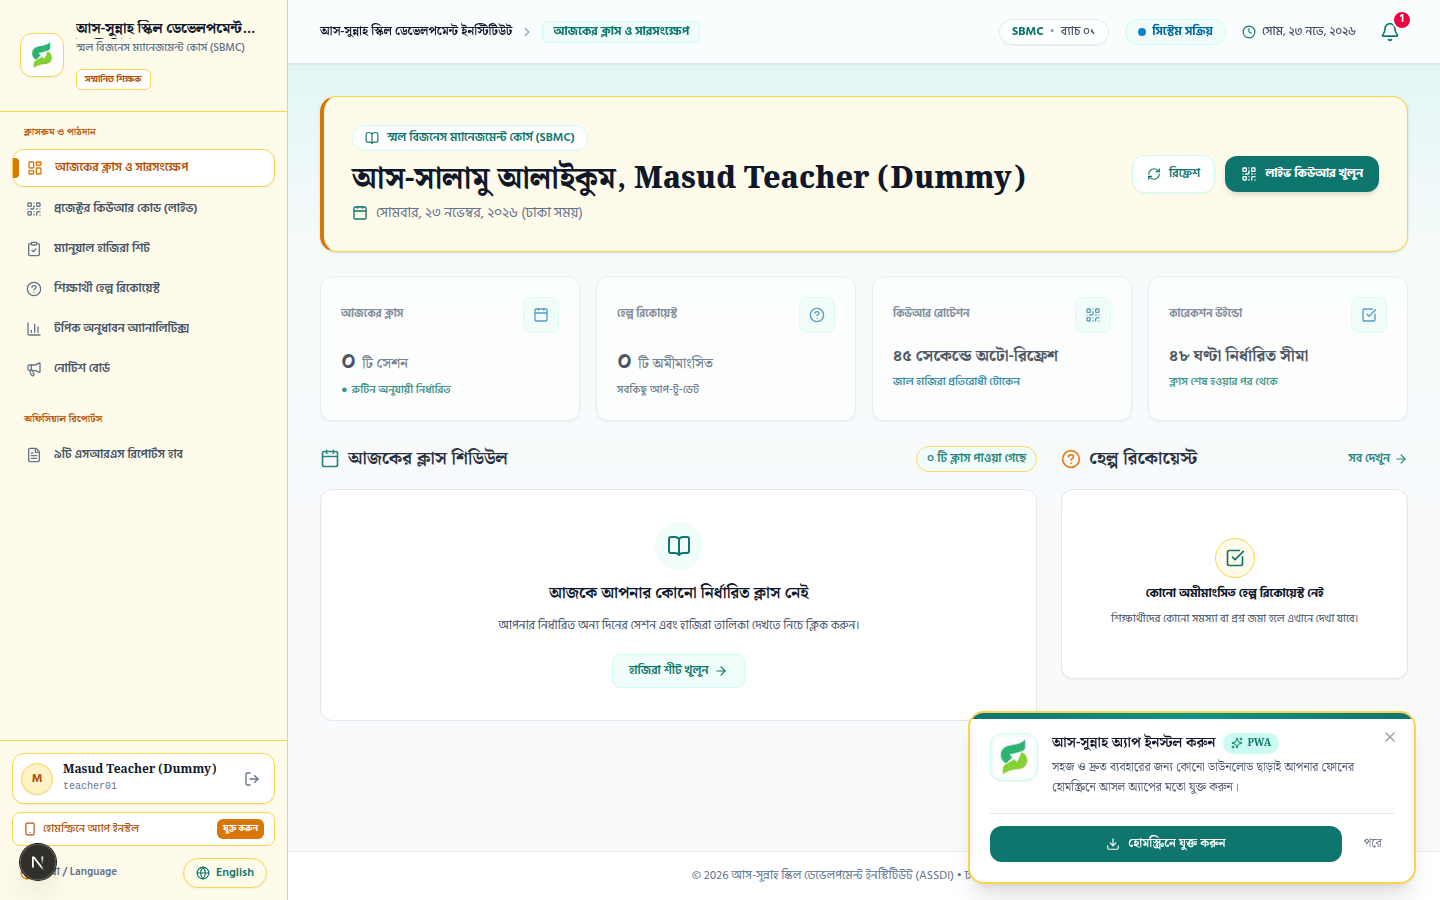
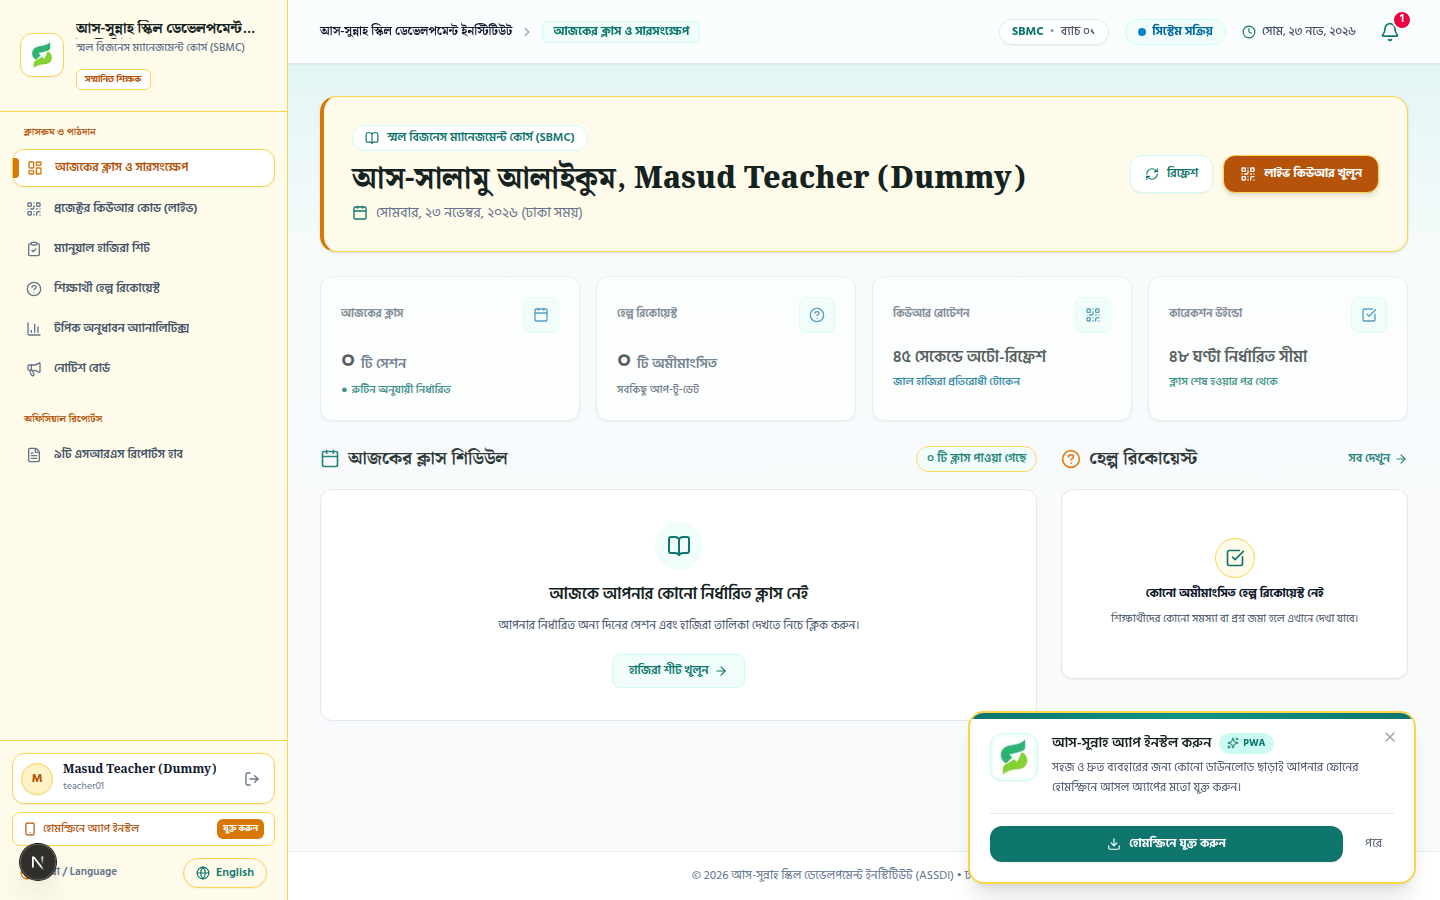
feat(design): replace dark green and teal with warm amber in QR modal and buttons

diff --git a/web/src/components/student/WebQRScannerModal.tsx b/web/src/components/student/WebQRScannerModal.tsx
@@ -255,13 +255,13 @@ export default function WebQRScannerModal({
         {/* Modal Header */}
         <div className="px-6 py-4 bg-slate-50 border-b border-slate-200/90 flex items-center justify-between">
           <div className="flex items-center gap-3">
-            <div className="w-10 h-10 rounded-xl bg-[#FFFBEB] border border-[#FCD34D] text-[#0F766E] flex items-center justify-center shadow-xs">
-              <QrCode className="w-5 h-5 text-[#0F766E]" />
+            <div className="w-10 h-10 rounded-xl bg-[#FFFBEB] border border-[#FCD34D] text-[#B45309] flex items-center justify-center shadow-xs">
+              <QrCode className="w-5 h-5 text-[#B45309]" />
             </div>
             <div>
               <h3 className="font-extrabold text-[#92400E] text-base sm:text-lg flex items-center gap-2">
                 {isBangla ? 'উপস্থিতি কিউআর স্ক্যানার' : 'Attendance QR Scanner'}
-                <span className="text-[10px] font-bold px-2 py-0.5 rounded-full bg-emerald-100 text-emerald-800 border border-emerald-200">
+                <span className="text-[10px] font-bold px-2 py-0.5 rounded-full bg-[#FEF3C7] text-[#92400E] border border-[#FCD34D]">
                   Live
                 </span>
               </h3>
@@ -290,7 +290,7 @@ export default function WebQRScannerModal({
             onClick={() => setActiveTab('camera')}
             className={`flex-1 py-2 text-xs font-bold rounded-lg transition-all flex items-center justify-center gap-2 cursor-pointer ${
               activeTab === 'camera'
-                ? 'bg-[#FFFBEB] text-[#0F766E] border border-[#FCD34D] shadow-xs'
+                ? 'bg-[#FFFBEB] text-[#B45309] border border-[#FCD34D] shadow-xs'
                 : 'text-slate-600 hover:text-slate-900'
             }`}
           >
@@ -304,7 +304,7 @@ export default function WebQRScannerModal({
             }}
             className={`flex-1 py-2 text-xs font-bold rounded-lg transition-all flex items-center justify-center gap-2 cursor-pointer ${
               activeTab === 'manual'
-                ? 'bg-[#FFFBEB] text-[#0F766E] border border-[#FCD34D] shadow-xs'
+                ? 'bg-[#FFFBEB] text-[#B45309] border border-[#FCD34D] shadow-xs'
                 : 'text-slate-600 hover:text-slate-900'
             }`}
           >
@@ -405,7 +405,7 @@ export default function WebQRScannerModal({
                     <div className="flex gap-2 mt-1">
                       <button
                         onClick={startCamera}
-                        className="px-3.5 py-1.5 rounded-lg bg-[#0F766E] hover:bg-[#115E59] text-white text-xs font-bold border border-[#FCD34D] flex items-center gap-1.5 transition-colors cursor-pointer"
+                        className="px-3.5 py-1.5 rounded-lg bg-[#B45309] hover:bg-[#92400E] text-white text-xs font-bold border border-[#FCD34D] flex items-center gap-1.5 transition-colors cursor-pointer shadow-xs active:scale-95"
                       >
                         <RefreshCw className="w-3.5 h-3.5 text-white" />
                         <span>{isBangla ? 'আবার চেষ্টা করুন' : 'Retry Camera'}</span>
@@ -469,7 +469,7 @@ export default function WebQRScannerModal({
                         ? 'প্রজেক্টরে প্রদর্শিত টোকেন কোড দিন'
                         : 'Paste or type session token...'
                     }
-                    className="w-full px-3.5 py-2.5 bg-slate-50 border border-slate-200 rounded-xl text-xs sm:text-sm font-mono text-slate-900 focus:outline-none focus:ring-2 focus:ring-[#0F766E] focus:bg-white"
+                    className="w-full px-3.5 py-2.5 bg-slate-50 border border-slate-200 rounded-xl text-xs sm:text-sm font-mono text-slate-900 focus:outline-none focus:ring-2 focus:ring-[#B45309] focus:bg-white"
                     required
                   />
                 </div>
@@ -483,7 +483,7 @@ export default function WebQRScannerModal({
               <button
                 type="submit"
                 disabled={submitting || !manualToken.trim()}
-                className="w-full py-2.5 px-4 rounded-xl bg-[#0F766E] hover:bg-[#115E59] text-white text-xs sm:text-sm font-bold border border-[#FCD34D] transition-all flex items-center justify-center gap-2 cursor-pointer shadow-xs disabled:opacity-50"
+                className="w-full py-2.5 px-4 rounded-xl bg-[#B45309] hover:bg-[#92400E] text-white text-xs sm:text-sm font-bold border border-[#FCD34D] transition-all flex items-center justify-center gap-2 cursor-pointer shadow-xs disabled:opacity-50"
               >
                 {submitting ? (
                   <RefreshCw className="w-4 h-4 animate-spin text-white" />
@@ -498,8 +498,8 @@ export default function WebQRScannerModal({
           )}
 
           {/* Institutional Security Notice */}
-          <div className="p-3 bg-emerald-50/70 rounded-xl border border-emerald-100 flex items-start gap-2 text-[11px] text-emerald-900">
-            <ShieldCheck className="w-4 h-4 text-emerald-700 shrink-0 mt-0.5" />
+          <div className="p-3 bg-[#FFFBEB] rounded-xl border border-[#FCD34D] flex items-start gap-2 text-[11px] text-[#92400E]">
+            <ShieldCheck className="w-4 h-4 text-[#D97706] shrink-0 mt-0.5" />
             <p>
               {isBangla
                 ? 'ক্লাস শুরুর নির্ধারিত ১৫ মিনিটের মধ্যে কেবল সক্রিয় ব্যাচের শিক্ষার্থীদের উপস্থিতি গ্রহণযোগ্য। প্রতিটি কিউআর কোড প্রতি ৪৫ সেকেন্ডে নতুন টোকেনে পরিবর্তিত হয়।'

diff --git a/web/src/app/student/page.tsx b/web/src/app/student/page.tsx
@@ -469,23 +469,23 @@ export default function StudentPortalPage() {
           <div className="flex flex-wrap items-center gap-2.5">
             <button
               onClick={() => setIdCardOpen(true)}
-              className="px-4 py-2 rounded-xl bg-white hover:bg-[#F0FDFA] text-[#0F766E] border border-[#CCFBF1] font-bold text-xs transition-all flex items-center gap-2 cursor-pointer shadow-xs active:scale-95"
+              className="px-4 py-2 rounded-xl bg-white hover:bg-[#FFFBEB] text-[#B45309] border border-[#FCD34D] font-bold text-xs transition-all flex items-center gap-2 cursor-pointer shadow-xs active:scale-95"
               title={isBangla ? 'ডিজিটাল আইডি কার্ড ও এডমিট কার্ড' : 'Digital ID & Admit Card'}
             >
-              <CreditCard className="w-4 h-4 text-[#0F766E]" />
+              <CreditCard className="w-4 h-4 text-[#B45309]" />
               <span>{isBangla ? 'আইডি কার্ড' : 'ID Card'}</span>
             </button>
             <button
               onClick={() => setCertModalOpen(true)}
-              className="px-4 py-2 rounded-xl bg-white hover:bg-[#F0FDFA] text-[#0F766E] border border-[#CCFBF1] font-bold text-xs transition-all flex items-center gap-2 cursor-pointer shadow-xs active:scale-95"
+              className="px-4 py-2 rounded-xl bg-white hover:bg-[#FFFBEB] text-[#B45309] border border-[#FCD34D] font-bold text-xs transition-all flex items-center gap-2 cursor-pointer shadow-xs active:scale-95"
               title={isBangla ? 'কোর্স সনদপত্র প্রিভিউ ও প্রিন্ট' : 'Course Certificate Preview & Print'}
             >
-              <Award className="w-4 h-4 text-[#0F766E]" />
+              <Award className="w-4 h-4 text-[#B45309]" />
               <span>{isBangla ? 'সনদপত্র' : 'Certificate'}</span>
             </button>
             <button
               onClick={() => setScannerOpen(true)}
-              className="px-4 py-2 rounded-xl bg-[#0F766E] hover:bg-[#115E59] text-white font-bold text-xs transition-all flex items-center gap-2 cursor-pointer shadow-md active:scale-95"
+              className="px-4 py-2 rounded-xl bg-[#B45309] hover:bg-[#92400E] text-white font-bold text-xs transition-all flex items-center gap-2 cursor-pointer shadow-md active:scale-95 border border-[#FCD34D]"
               title={isBangla ? 'ক্যামেরা দিয়ে কিউআর স্ক্যান করুন' : 'Scan Attendance QR'}
             >
               <QrCode className="w-4 h-4 text-white" />
@@ -494,9 +494,9 @@ export default function StudentPortalPage() {
             <button
               onClick={loadStudentData}
               title={isBangla ? 'রিফ্রেশ করুন' : 'Refresh'}
-              className="px-4 py-2 rounded-xl bg-white hover:bg-[#F0FDFA] text-[#0F766E] border border-[#CCFBF1] transition-colors flex items-center gap-2 text-xs font-bold cursor-pointer shadow-xs"
+              className="px-4 py-2 rounded-xl bg-white hover:bg-[#FFFBEB] text-[#B45309] border border-[#FCD34D] transition-colors flex items-center gap-2 text-xs font-bold cursor-pointer shadow-xs"
             >
-              <RefreshCw className={`w-3.5 h-3.5 text-[#0F766E] ${loading ? 'animate-spin' : ''}`} />
+              <RefreshCw className={`w-3.5 h-3.5 text-[#B45309] ${loading ? 'animate-spin' : ''}`} />
               <span>{isBangla ? 'তথ্য রিফ্রেশ' : 'Refresh Data'}</span>
             </button>
           </div>

diff --git a/web/src/app/teacher/page.tsx b/web/src/app/teacher/page.tsx
@@ -146,7 +146,7 @@ export default function TeacherOverviewPage() {
             </button>
             <Link
               href="/teacher/qr"
-              className="px-4 py-2.5 bg-[#0F766E] hover:bg-[#115E59] text-white font-bold rounded-xl text-xs shadow-md flex items-center gap-2 transition cursor-pointer active:scale-95"
+              className="px-4 py-2.5 bg-[#B45309] hover:bg-[#92400E] text-white font-bold rounded-xl text-xs shadow-md flex items-center gap-2 transition cursor-pointer active:scale-95 border border-[#FCD34D]"
             >
               <QrCode className="w-4 h-4 text-white" />
               <span>{isBangla ? 'লাইভ কিউআর খুলুন' : 'Open Live QR'}</span>
@@ -325,7 +325,7 @@ export default function TeacherOverviewPage() {
                   <div className="flex flex-wrap items-center gap-2 pt-1">
                     <Link
                       href={`/teacher/qr?sessionId=${session.id}`}
-                      className="px-3.5 py-2 bg-[#0F766E] hover:bg-[#115E59] text-white text-xs font-bold rounded-lg flex items-center gap-1.5 transition shadow-xs cursor-pointer active:scale-95"
+                      className="px-3.5 py-2 bg-[#B45309] hover:bg-[#92400E] text-white text-xs font-bold rounded-lg flex items-center gap-1.5 transition shadow-xs cursor-pointer active:scale-95 border border-[#FCD34D]"
                     >
                       <QrCode className="w-3.5 h-3.5 text-white" />
                       <span>{isBangla ? 'লাইভ কিউআর প্রজেক্টর' : 'Live QR Projector'}</span>
